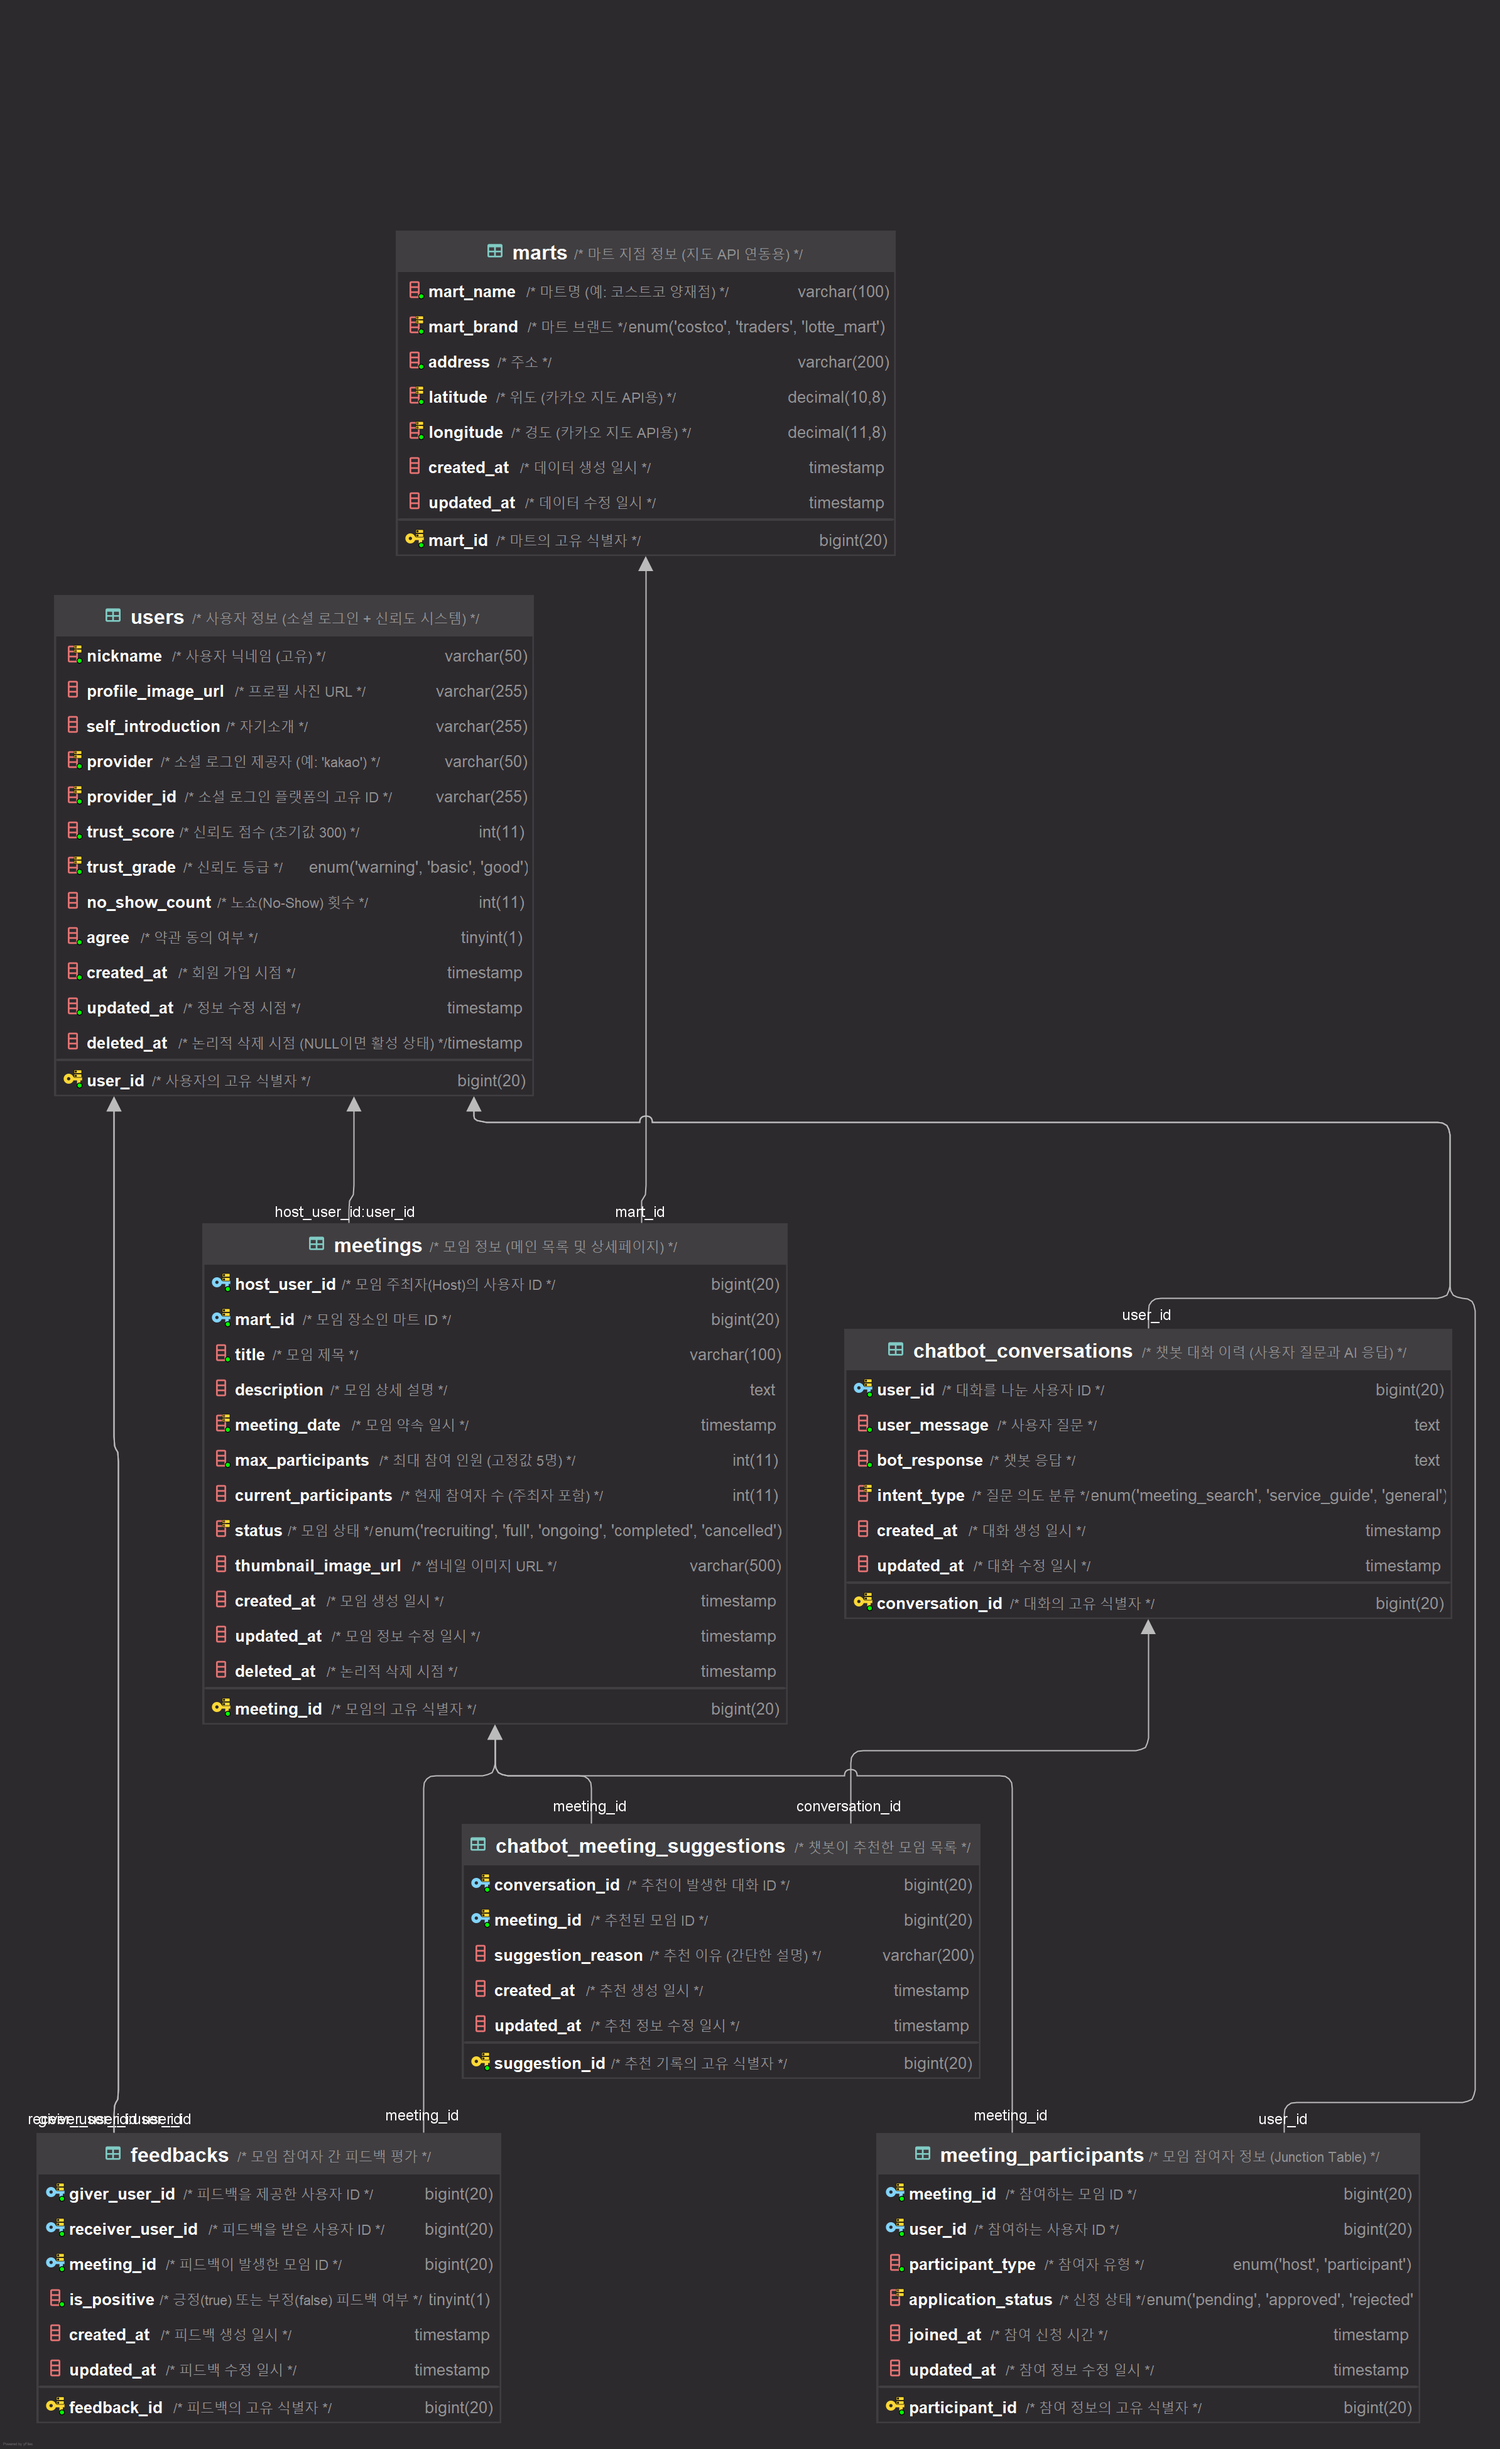
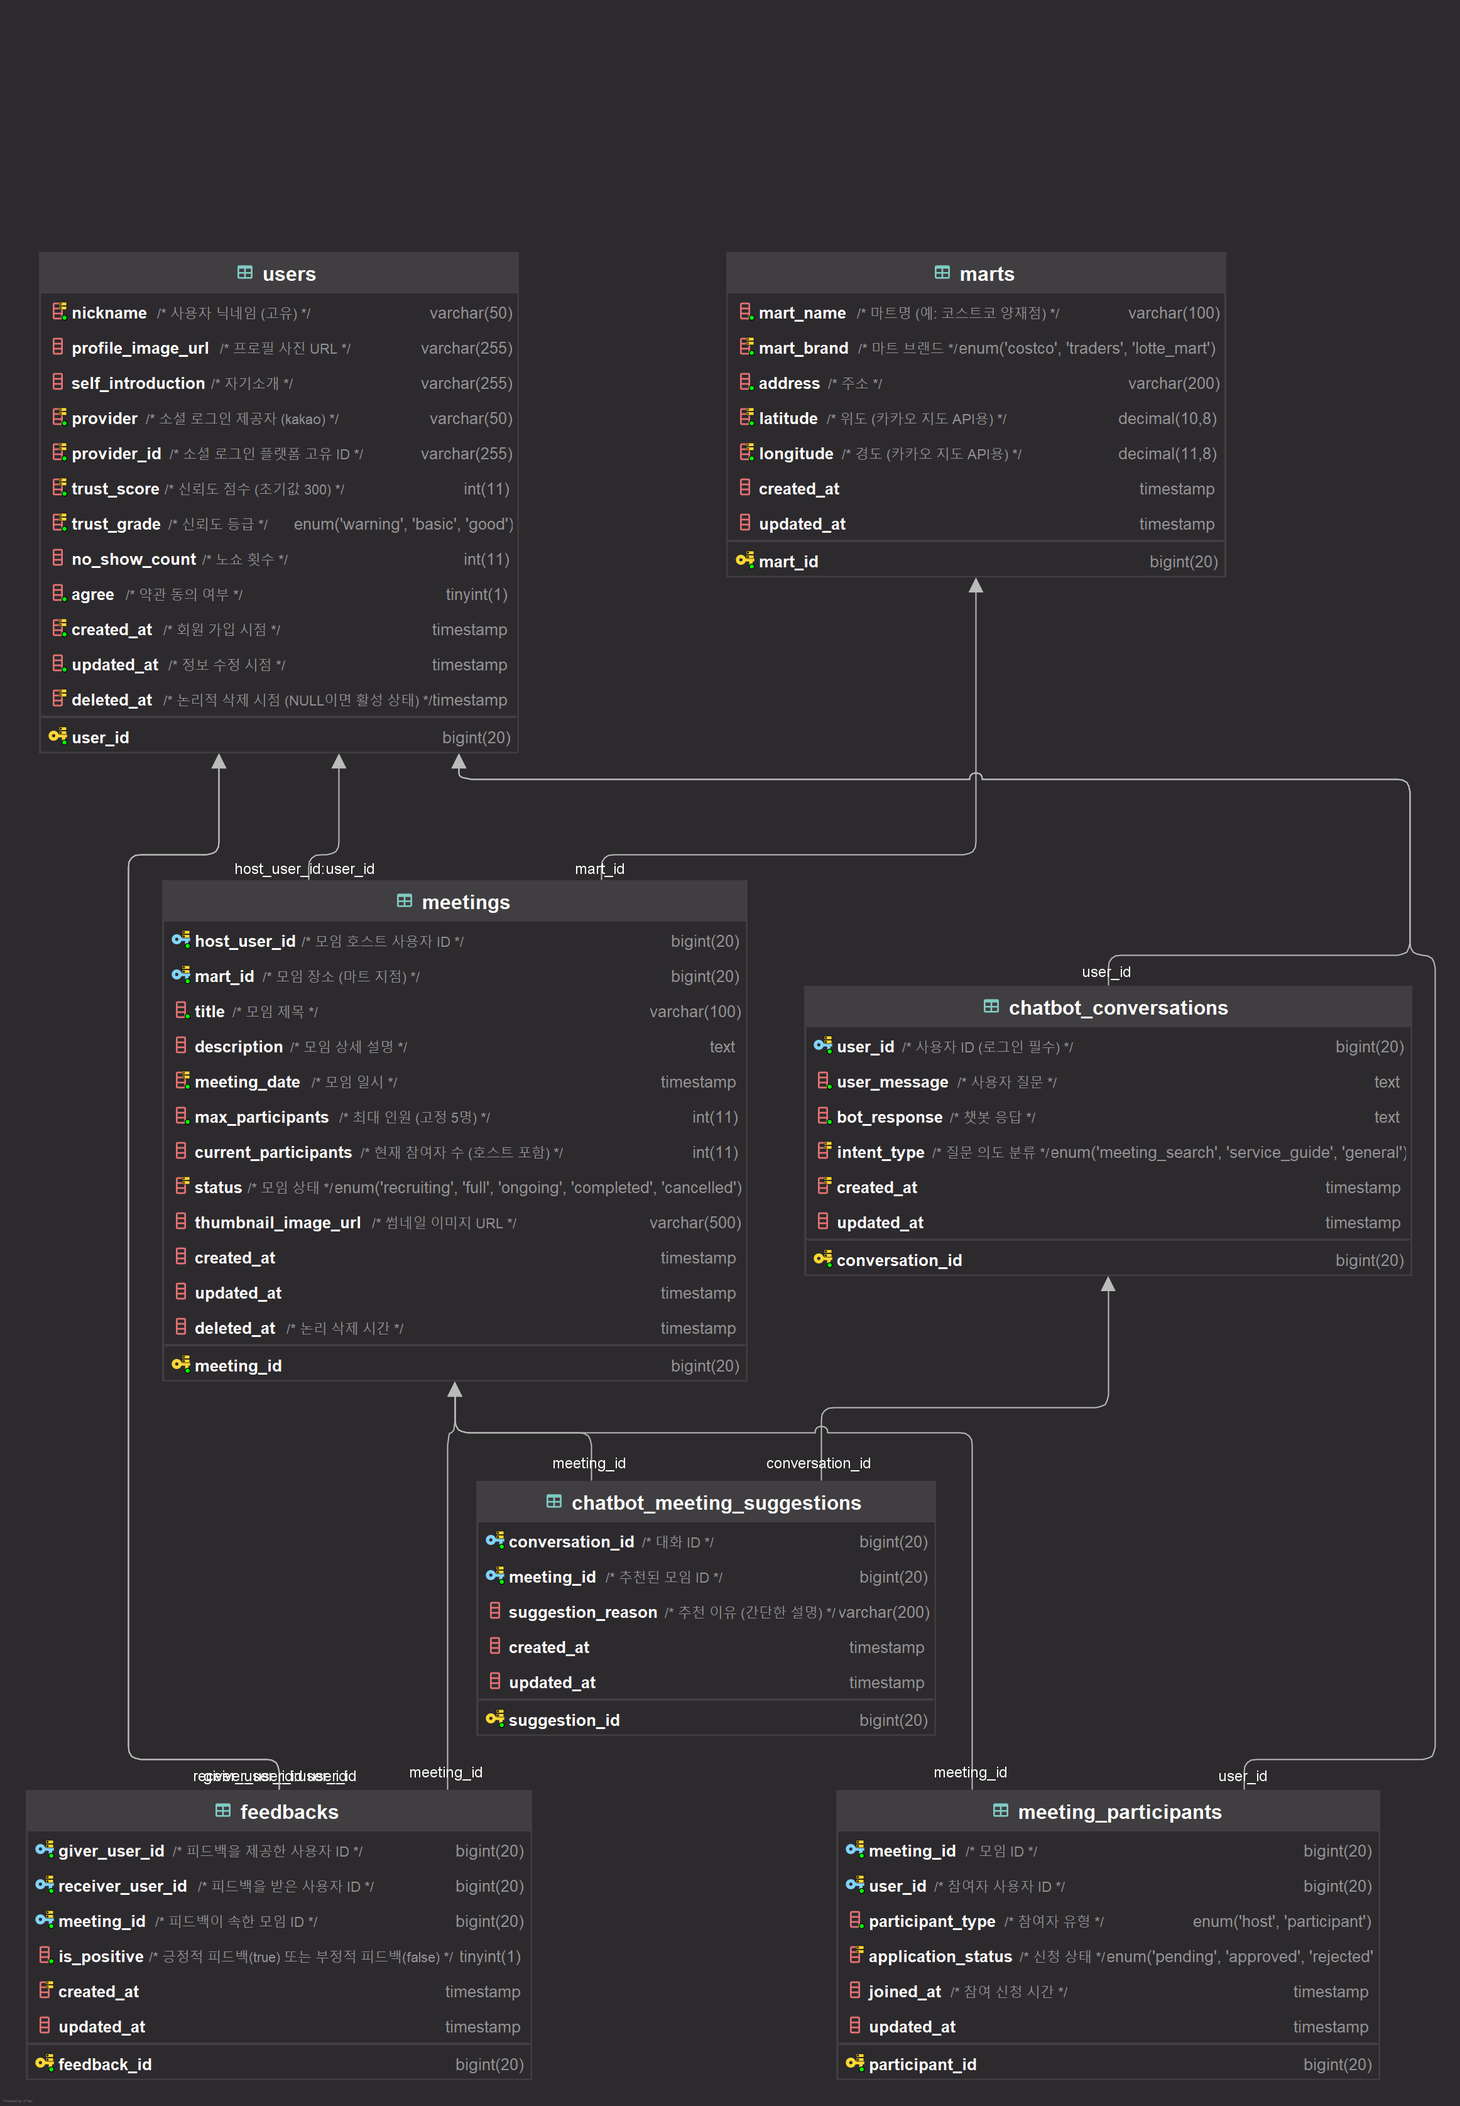
docs: 논리 ERD 문서 제약조건 수정 및 최신화 (#60)
- 테이블 제약조건 및 컬럼 속성 최신 스키마(v1.3.0)와 동기화
  - `users`: UNIQUE 조건 추가 설명 및 중복 항목 수정
  - `meetings`, `feedbacks` 등 일부 컬럼 제약조건 정정
- 문서 제목 및 표기 방식 변경: 'Natthing' → '반띵(Banthing)'
- 논리 ERD 관련 이미지 파일 갱신
- 변경사항을 반영하여 문서 버전 및 수정일 업데이트

diff --git a/architecture/Logical_ERD.md b/architecture/Logical_ERD.md
@@ -1,18 +1,20 @@
-# Natthing 프로젝트 논리 ERD 명세서
+# 반띵(Banthing) 서비스 논리 ERD 명세서
 
 ## 문서 정보
 
-- **문서명**: Banthing 서비스 논리 ERD 명세서
-- **버전**: v1.2.0
+- **문서명**: 반띵(Banthing) 서비스 논리 ERD 명세서
+- **버전**: v1.3.0
 - **작성일**: 2025.09.10
-- **작성자**: [고동현](https://github.com/rhehdgus8831?tab=repositories)
+- **작성자**: [고동현](https://github.com/rhehdgus8831)
 - **최종 수정일**: 2025.09.11
+
+-----
 
 ## 1\. 개요
 
 ### 1.1. 문서 목적
 
-본 문서는 **'Natthing'** 프로젝트의 데이터베이스 구조를 정의합니다. 프로젝트에 참여하는 모든 구성원이 데이터 구조에 대해 일관된 이해를 갖고, 효율적인 개발 및 유지보수를 진행하는 것을 목표로 합니다.
+본 문서는 **'반띵(Banthing)'** 프로젝트의 데이터베이스 구조를 정의합니다. 프로젝트에 참여하는 모든 구성원이 데이터 구조에 대해 일관된 이해를 갖고, 효율적인 개발 및 유지보수를 진행하는 것을 목표로 합니다.
 
 ### 1.2. 표기법 안내
 
@@ -21,10 +23,10 @@
 - **UNIQUE**: 해당 컬럼(또는 컬럼 조합)의 모든 값이 고유해야 함을 나타내는 제약 조건입니다.
 - **NOT NULL**: 해당 컬럼에 반드시 값이 존재해야 함을 의미합니다.
 
------
-
-> 본격적인 테이블 명세에 앞서, 아래 링크를 통해 전체 데이터의 관계를 나타내는 **개념 ERD**를 먼저 확인하는 것을 권장합니다. <br>
+> 본격적인 테이블 명세에 앞서, 아래 링크를 통해 전체 데이터의 관계를 나타내는 **개념 ERD**를 먼저 확인하는 것을 권장합니다. \<br\>
 > [논리ERD](https://www.google.com/search?q=/architecture/conceptual_ERD.md)
+
+-----
 
 ## 2\. 테이블 명세
 
@@ -51,12 +53,14 @@
 ### 2.2. `users`
 
 - **설명**: 서비스에 가입한 사용자의 정보를 관리하는 통합 테이블입니다. 소셜 로그인 정보, 프로필, 신뢰도 시스템 관련 데이터를 포함합니다.
-- **비고**: `deleted_at` 컬럼을 사용하여 사용자를 물리적으로 삭제하지 않고, 비활성화 처리하는 **논리적 삭제(Soft Delete)** 방식을 사용합니다. 이를 통해 사용자 데이터를 보존하고 필요시 복구할 수 있습니다.
+- **비고**:
+  - `provider`와 `provider_id` 조합에 **UNIQUE 제약 조건**을 설정하여, 동일한 소셜 계정으로 중복 가입하는 것을 방지합니다.
+  - `deleted_at` 컬럼을 사용하여 사용자를 물리적으로 삭제하지 않고, 비활성화 처리하는 **논리적 삭제(Soft Delete)** 방식을 사용합니다. 이를 통해 사용자 데이터를 보존하고 필요시 복구할 수 있습니다.
 
 | 컬럼명 | 데이터 타입 | 키 | 제약 조건 | 설명 |
 | :--- | :--- | :--- | :--- | :--- |
 | `user_id` | BIGINT | **PK** | NOT NULL, AUTO\_INCREMENT | 사용자의 고유 식별자 |
-| `nickname` | VARCHAR(50) | | NOT NULL, **UNIQUE** | 사용자 닉네임 (고유) |
+| `nickname` | VARCHAR(50) | | NOT NULL | 사용자 닉네임 (고유) |
 | `profile_image_url`| VARCHAR(255) | | | 프로필 사진 URL |
 | `self_introduction`| VARCHAR(255) | | | 자기소개 |
 | `provider` | VARCHAR(50) | | NOT NULL | 소셜 로그인 제공자 (예: 'kakao') |
@@ -77,7 +81,7 @@
 | 컬럼명 | 데이터 타입 | 키 | 제약 조건                                                   | 설명 |
 | :--- | :--- | :--- |:--------------------------------------------------------| :--- |
 | `meeting_id` | BIGINT | **PK** | AUTO\_INCREMENT                                         | 모임의 고유 식별자 |
-| `host_user_id` | BIGINT | **FK** | NOT NULL, **UNIQUE**                                              | 모임 주최자(Host)의 사용자 ID (`users.user_id`) |
+| `host_user_id` | BIGINT | **FK** | NOT NULL                                              | 모임 주최자(Host)의 사용자 ID (`users.user_id`) |
 | `mart_id` | BIGINT | **FK** | NOT NULL                                                | 모임 장소인 마트 ID (`marts.mart_id`) |
 | `title` | VARCHAR(100) | | NOT NULL                                                | 모임 제목 |
 | `description` | TEXT | |                                                         | 모임 상세 설명 |
@@ -93,7 +97,7 @@
 ### 2.4. `meeting_participants`
 
 - **설명**: 어떤 사용자가 어떤 모임에 참여하는지를 기록하는 \*\*중간 테이블(Junction Table)\*\*입니다. 이 테이블을 통해 `users`와 `meetings` 간의 다대다(N:M) 관계를 표현합니다.
-- **비고**: `meeting_id`와 `user_id` 조합에 UNIQUE 제약 조건을 설정하여 한 명의 사용자가 동일한 모임에 중복으로 참여하는 것을 방지합니다.
+- **비고**: `meeting_id`와 `user_id` 조합에 **UNIQUE 제약 조건**을 설정하여 한 명의 사용자가 동일한 모임에 중복으로 참여하는 것을 방지합니다.
 
 | 컬럼명 | 데이터 타입 | 키 | 제약 조건 | 설명 |
 | :--- | :--- | :--- | :--- | :--- |
@@ -138,14 +142,14 @@
 
 - **설명**: 모임 종료 후 참여자들이 서로를 평가하는 피드백 정보를 저장합니다. 이 데이터는 `users` 테이블의 신뢰도 점수(`trust_score`)를 갱신하는 데 사용됩니다.
 - **비고**:
-    - `giver_user_id`, `receiver_user_id`, `meeting_id` 조합에 UNIQUE 제약 조건을 설정하여, 한 모임에서 동일한 사람에게 중복으로 피드백을 남길 수 없도록 합니다.
-    - **`giver_user_id`와 `receiver_user_id`가 동일할 수 없도록 CHECK 제약 조건을 추가하여, 사용자가 스스로에게 피드백을 남기는 것을 원천적으로 방지합니다.**
+  - `giver_user_id`, `receiver_user_id`, `meeting_id` 조합에 **UNIQUE 제약 조건**을 설정하여, 한 모임에서 동일한 사람에게 중복으로 피드백을 남길 수 없도록 합니다.
+  - **`giver_user_id`와 `receiver_user_id`가 동일할 수 없도록 CHECK 제약 조건을 추가하여, 사용자가 스스로에게 피드백을 남기는 것을 원천적으로 방지합니다.**
 
 | 컬럼명 | 데이터 타입 | 키 | 제약 조건                                                          | 설명 |
 | :--- | :--- | :--- |:---------------------------------------------------------------| :--- |
 | `feedback_id` | BIGINT | **PK** | AUTO\_INCREMENT                                                | 피드백의 고유 식별자 |
-| `giver_user_id` | BIGINT | **FK** | NOT NULL,**UNIQUE**                                            | 피드백을 제공한 사용자 ID (`users.user_id`) |
-| `receiver_user_id` | BIGINT | **FK** | NOT NULL,**UNIQUE**                                            | 피드백을 받은 사용자 ID (`users.user_id`) |
+| `giver_user_id` | BIGINT | **FK** | NOT NULL                                                       | 피드백을 제공한 사용자 ID (`users.user_id`) |
+| `receiver_user_id` | BIGINT | **FK** | NOT NULL                                                       | 피드백을 받은 사용자 ID (`users.user_id`) |
 | `meeting_id` | BIGINT | **FK** | NOT NULL                                                       | 피드백이 발생한 모임 ID (`meetings.meeting_id`) |
 | `is_positive` | BOOLEAN | | NOT NULL                                                       | 긍정(true) 또는 부정(false) 피드백 여부 |
 | `created_at` | TIMESTAMP | | DEFAULT CURRENT\_TIMESTAMP                                     | 피드백 생성 일시 |
@@ -157,6 +161,7 @@
 
 | 버전 | 날짜 | 변경 내용 | 작성자 |
 | :--- | :--- |:--- |:--- |
+| v1.3.0 | 2025.09.11 | 최종 DDL(`table_schema.md`) 기준으로 테이블 제약조건 및 컬럼 속성 동기화 | 고동현 |
 | v1.2.0 | 2025.09.11 | 최신 스키마와 동기화: 제약조건 수정, 디폴트 값 추가 | 고동현 |
 | v1.1.0 | 2025.09.11 | `feedbacks` 테이블에 셀프 피드백 방지 제약조건 추가 | 고동현 |
 | v1.0.0 | 2025.09.10 | 초기 문서 작성 | 고동현 |
